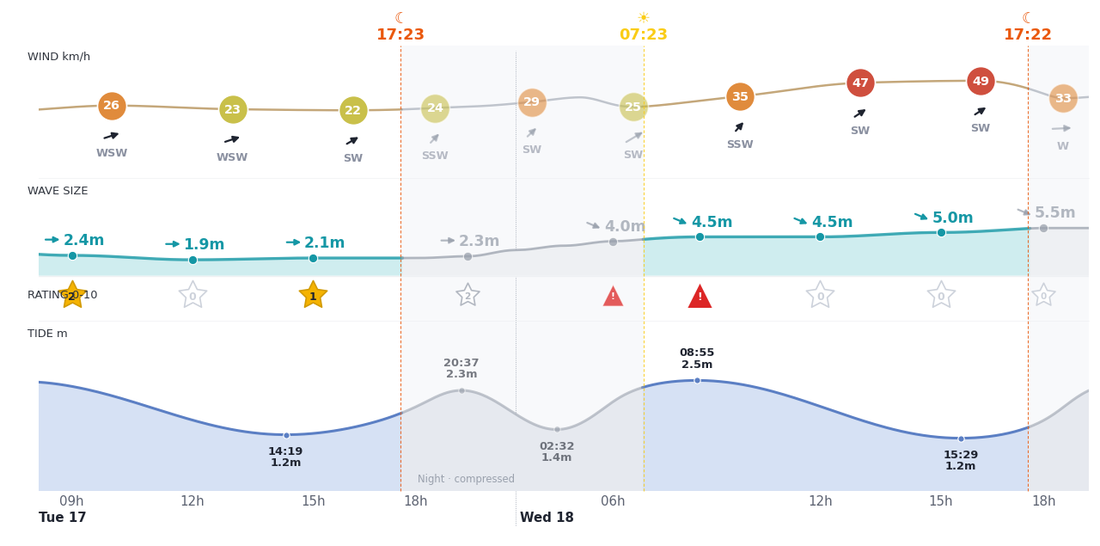
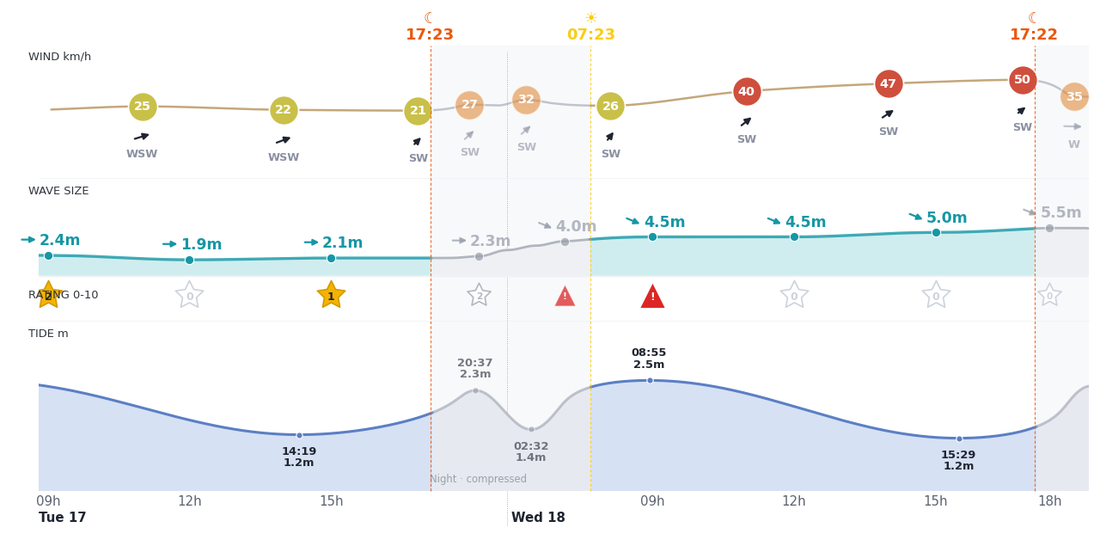
erisurf: run 401

diff --git a/index.html b/index.html
@@ -548,7 +548,7 @@ function draw(){var n=Date.now();cards(n);if(r.open)tide(n)}
 draw();setInterval(draw,60e3);r.addEventListener('toggle',draw);
 document.addEventListener('visibilitychange',function(){if(!document.hidden)draw()});
 if(window.ResizeObserver)new ResizeObserver(function(){if(r.open)draw()}).observe(o);
-})();</script><h2 class="livehd" id="conditions">Wind, tide &amp; surf forecast <span class="plan-fc">· Next 36h</span></h2><figure id="pic-conditions" class="c36"><div class="livechart" data-geo="{&quot;t0&quot;: 1794902789, &quot;t1&quot;: 1795034160, &quot;report&quot;: 1794908549, &quot;left&quot;: 0.035, &quot;right&quot;: 0.99, &quot;top&quot;: 0.085, &quot;bottom&quot;: 0.8993, &quot;suns&quot;: [1794936220, 1794986599, 1795022578], &quot;sunk&quot;: [&quot;set&quot;, &quot;rise&quot;, &quot;set&quot;], &quot;warp&quot;: [[1794902789, 0.0], [1794902789, 0.0], [1794903689, 0.00845], [1794904589, 0.01729], [1794905489, 0.02643], [1794906389, 0.03579], [1794907289, 0.04528], [1794908189, 0.05483], [1794909089, 0.0644], [1794909989, 0.07398], [1794910889, 0.08356], [1794911789, 0.09314], [1794912689, 0.10271], [1794913589, 0.11229], [1794914489, 0.12187], [1794915389, 0.13145], [1794916289, 0.14102], [1794917189, 0.1506], [1794918089, 0.16018], [1794918989, 0.16976], [1794919889, 0.17933], [1794920789, 0.18891], [1794921689, 0.19849], [1794922589, 0.20807], [1794923489, 0.21764], [1794924389, 0.22722], [1794925289, 0.2368], [1794926189, 0.24638], [1794927089, 0.25595], [1794927989, 0.26553], [1794928889, 0.2751], [1794929789, 0.28461], [1794930689, 0.29402], [1794931589, 0.30324], [1794932489, 0.31219], [1794933389, 0.32078], [1794934289, 0.32893], [1794935189, 0.33657], [1794936089, 0.34365], [1794936989, 0.35017], [1794937889, 0.35612], [1794938789, 0.36154], [1794939689, 0.3665], [1794940589, 0.37107], [1794941489, 0.37534], [1794942389, 0.37939], [1794943289, 0.38331], [1794944189, 0.38716], [1794945089, 0.391], [1794945989, 0.39483], [1794946889, 0.39866], [1794947789, 0.40249], [1794948689, 0.40632], [1794949589, 0.41015], [1794950489, 0.41398], [1794951389, 0.41781], [1794952289, 0.42164], [1794953189, 0.42548], [1794954089, 0.42931], [1794954989, 0.43314], [1794955889, 0.43697], [1794956789, 0.4408], [1794957689, 0.44463], [1794958589, 0.44846], [1794959489, 0.45229], [1794960389, 0.45612], [1794961289, 0.45995], [1794962189, 0.46379], [1794963089, 0.46762], [1794963989, 0.47145], [1794964889, 0.47528], [1794965789, 0.47911], [1794966689, 0.48294], [1794967589, 0.48677], [1794968489, 0.4906], [1794969389, 0.49443], [1794970289, 0.49826], [1794971189, 0.5021], [1794972089, 0.50593], [1794972989, 0.50976], [1794973889, 0.51359], [1794974789, 0.51742], [1794975689, 0.52125], [1794976589, 0.52508], [1794977489, 0.52891], [1794978389, 0.53274], [1794979289, 0.53659], [1794980189, 0.54048], [1794981089, 0.54448], [1794981989, 0.54867], [1794982889, 0.55312], [1794983789, 0.55794], [1794984689, 0.5632], [1794985589, 0.56897], [1794986489, 0.5753], [1794987389, 0.58219], [1794988289, 0.58965], [1794989189, 0.59763], [1794990089, 0.60608], [1794990989, 0.61492], [1794991889, 0.62407], [1794992789, 0.63342], [1794993689, 0.64291], [1794994589, 0.65246], [1794995489, 0.66204], [1794996389, 0.67162], [1794997289, 0.68119], [1794998189, 0.69077], [1794999089, 0.70035], [1794999989, 0.70993], [1795000889, 0.7195], [1795001789, 0.72908], [1795002689, 0.73866], [1795003589, 0.74824], [1795004489, 0.75781], [1795005389, 0.76739], [1795006289, 0.77697], [1795007189, 0.78655], [1795008089, 0.79612], [1795008989, 0.8057], [1795009889, 0.81528], [1795010789, 0.82486], [1795011689, 0.83443], [1795012589, 0.84401], [1795013489, 0.85359], [1795014389, 0.86317], [1795015289, 0.87273], [1795016189, 0.88225], [1795017089, 0.89165], [1795017989, 0.90088], [1795018889, 0.90983], [1795019789, 0.91842], [1795020689, 0.92656], [1795021589, 0.9342], [1795022489, 0.94129], [1795023389, 0.9478], [1795024289, 0.95375], [1795025189, 0.95918], [1795026089, 0.96413], [1795026989, 0.9687], [1795027889, 0.97297], [1795028789, 0.97702], [1795029689, 0.98094], [1795030589, 0.9848], [1795031489, 0.98863], [1795032389, 0.99246], [1795033289, 0.99629], [1795034160, 1.0]]}"><a href="img/401/conditions36.png" target="_blank" title="open full size"><img loading="lazy" src="img/401/conditions36.png" alt="wind, tide and forecast"></a><div class="nowline" hidden><span class="nowlbl"></span></div><script>(function(){
+})();</script><h2 class="livehd" id="conditions">Wind, tide &amp; surf forecast <span class="plan-fc">· Next 36h</span></h2><figure id="pic-conditions" class="c36"><div class="livechart" data-geo="{&quot;t0&quot;: 1794905246, &quot;t1&quot;: 1795037760, &quot;report&quot;: 1794911006, &quot;left&quot;: 0.035, &quot;right&quot;: 0.99, &quot;top&quot;: 0.085, &quot;bottom&quot;: 0.8993, &quot;suns&quot;: [1794936220, 1794986599, 1795022578], &quot;sunk&quot;: [&quot;set&quot;, &quot;rise&quot;, &quot;set&quot;], &quot;warp&quot;: [[1794905246, 0.0], [1794905246, 0.0], [1794906146, 0.01089], [1794907046, 0.02198], [1794907946, 0.03318], [1794908846, 0.04442], [1794909746, 0.05565], [1794910646, 0.06689], [1794911546, 0.07812], [1794912446, 0.08936], [1794913346, 0.1006], [1794914246, 0.11183], [1794915146, 0.12307], [1794916046, 0.1343], [1794916946, 0.14554], [1794917846, 0.15677], [1794918746, 0.16801], [1794919646, 0.17925], [1794920546, 0.19048], [1794921446, 0.20172], [1794922346, 0.21295], [1794923246, 0.22419], [1794924146, 0.23543], [1794925046, 0.24666], [1794925946, 0.2579], [1794926846, 0.26913], [1794927746, 0.28037], [1794928646, 0.2916], [1794929546, 0.30277], [1794930446, 0.31381], [1794931346, 0.3246], [1794932246, 0.33501], [1794933146, 0.34491], [1794934046, 0.35415], [1794934946, 0.36263], [1794935846, 0.37026], [1794936746, 0.377], [1794937646, 0.38285], [1794938546, 0.38786], [1794939446, 0.3921], [1794940346, 0.39569], [1794941246, 0.39876], [1794942146, 0.40145], [1794943046, 0.40389], [1794943946, 0.4062], [1794944846, 0.40846], [1794945746, 0.41071], [1794946646, 0.41295], [1794947546, 0.4152], [1794948446, 0.41745], [1794949346, 0.41969], [1794950246, 0.42194], [1794951146, 0.42419], [1794952046, 0.42644], [1794952946, 0.42868], [1794953846, 0.43093], [1794954746, 0.43318], [1794955646, 0.43542], [1794956546, 0.43767], [1794957446, 0.43992], [1794958346, 0.44217], [1794959246, 0.44441], [1794960146, 0.44666], [1794961046, 0.44891], [1794961946, 0.45115], [1794962846, 0.4534], [1794963746, 0.45565], [1794964646, 0.4579], [1794965546, 0.46014], [1794966446, 0.46239], [1794967346, 0.46464], [1794968246, 0.46688], [1794969146, 0.46913], [1794970046, 0.47138], [1794970946, 0.47363], [1794971846, 0.47587], [1794972746, 0.47812], [1794973646, 0.48037], [1794974546, 0.48262], [1794975446, 0.48486], [1794976346, 0.48711], [1794977246, 0.48936], [1794978146, 0.4916], [1794979046, 0.49386], [1794979946, 0.49617], [1794980846, 0.49861], [1794981746, 0.5013], [1794982646, 0.50437], [1794983546, 0.50796], [1794984446, 0.5122], [1794985346, 0.51721], [1794986246, 0.52306], [1794987146, 0.5298], [1794988046, 0.53743], [1794988946, 0.54591], [1794989846, 0.55515], [1794990746, 0.56505], [1794991646, 0.57546], [1794992546, 0.58625], [1794993446, 0.59729], [1794994346, 0.60847], [1794995246, 0.61969], [1794996146, 0.63093], [1794997046, 0.64216], [1794997946, 0.6534], [1794998846, 0.66464], [1794999746, 0.67587], [1795000646, 0.68711], [1795001546, 0.69834], [1795002446, 0.70958], [1795003346, 0.72082], [1795004246, 0.73205], [1795005146, 0.74329], [1795006046, 0.75452], [1795006946, 0.76576], [1795007846, 0.777], [1795008746, 0.78823], [1795009646, 0.79947], [1795010546, 0.8107], [1795011446, 0.82194], [1795012346, 0.83317], [1795013246, 0.84441], [1795014146, 0.85565], [1795015046, 0.86687], [1795015946, 0.87805], [1795016846, 0.88909], [1795017746, 0.89988], [1795018646, 0.91029], [1795019546, 0.92019], [1795020446, 0.92943], [1795021346, 0.9379], [1795022246, 0.94554], [1795023146, 0.95228], [1795024046, 0.95813], [1795024946, 0.96313], [1795025846, 0.96738], [1795026746, 0.97097], [1795027646, 0.97404], [1795028546, 0.97673], [1795029446, 0.97917], [1795030346, 0.98148], [1795031246, 0.98374], [1795032146, 0.98598], [1795033046, 0.98823], [1795033946, 0.99048], [1795034846, 0.99272], [1795035746, 0.99497], [1795036646, 0.99722], [1795037546, 0.99947], [1795037760, 1.0]]}"><a href="img/401/conditions36.png" target="_blank" title="open full size"><img loading="lazy" src="img/401/conditions36.png" alt="wind, tide and forecast"></a><div class="nowline" hidden><span class="nowlbl"></span></div><script>(function(){
 var box=document.currentScript.parentNode,g=JSON.parse(box.dataset.geo),
 line=box.querySelector('.nowline'),lbl=line.firstChild;
 // time -> fraction of the plot width; piecewise when the night is squeezed
@@ -587,7 +587,7 @@ function place(){
 place();setInterval(place,60000);
 // the 72h chart sits in a closed <details>: place the line when it opens
 var dd=box.closest('details');if(dd)dd.addEventListener('toggle',place);
-})();</script></div><details class="c72"><summary title="Show / hide the next 72h"><span class="c72-open">&gt;&gt;</span><span class="c72-close">&lt;&lt;</span></summary><div class="scroll72"><div class="livechart" data-geo="{&quot;t0&quot;: 1794902790, &quot;t1&quot;: 1795163760, &quot;report&quot;: 1794908550, &quot;left&quot;: 0.0175, &quot;right&quot;: 0.995, &quot;top&quot;: 0.085, &quot;bottom&quot;: 0.8993, &quot;suns&quot;: [1794936220, 1794986599, 1795022578, 1795073066, 1795108938], &quot;sunk&quot;: [&quot;set&quot;, &quot;rise&quot;, &quot;set&quot;, &quot;rise&quot;, &quot;set&quot;], &quot;warp&quot;: [[1794902790, 0.0], [1794902790, 0.0], [1794903690, 0.00474], [1794904590, 0.00971], [1794905490, 0.01484], [1794906390, 0.02009], [1794907290, 0.02541], [1794908190, 0.03078], [1794909090, 0.03615], [1794909990, 0.04153], [1794910890, 0.0469], [1794911790, 0.05228], [1794912690, 0.05766], [1794913590, 0.06303], [1794914490, 0.06841], [1794915390, 0.07378], [1794916290, 0.07916], [1794917190, 0.08454], [1794918090, 0.08991], [1794918990, 0.09529], [1794919890, 0.10066], [1794920790, 0.10604], [1794921690, 0.11142], [1794922590, 0.11679], [1794923490, 0.12217], [1794924390, 0.12754], [1794925290, 0.13292], [1794926190, 0.1383], [1794927090, 0.14367], [1794927990, 0.14905], [1794928890, 0.15442], [1794929790, 0.15976], [1794930690, 0.16504], [1794931590, 0.17022], [1794932490, 0.17524], [1794933390, 0.18006], [1794934290, 0.18463], [1794935190, 0.18892], [1794936090, 0.1929], [1794936990, 0.19656], [1794937890, 0.1999], [1794938790, 0.20294], [1794939690, 0.20572], [1794940590, 0.20829], [1794941490, 0.21068], [1794942390, 0.21296], [1794943290, 0.21516], [1794944190, 0.21732], [1794945090, 0.21947], [1794945990, 0.22162], [1794946890, 0.22377], [1794947790, 0.22593], [1794948690, 0.22808], [1794949590, 0.23023], [1794950490, 0.23238], [1794951390, 0.23453], [1794952290, 0.23668], [1794953190, 0.23883], [1794954090, 0.24098], [1794954990, 0.24313], [1794955890, 0.24528], [1794956790, 0.24743], [1794957690, 0.24958], [1794958590, 0.25173], [1794959490, 0.25388], [1794960390, 0.25603], [1794961290, 0.25818], [1794962190, 0.26033], [1794963090, 0.26248], [1794963990, 0.26463], [1794964890, 0.26678], [1794965790, 0.26893], [1794966690, 0.27108], [1794967590, 0.27323], [1794968490, 0.27538], [1794969390, 0.27753], [1794970290, 0.27969], [1794971190, 0.28184], [1794972090, 0.28399], [1794972990, 0.28614], [1794973890, 0.28829], [1794974790, 0.29044], [1794975690, 0.29259], [1794976590, 0.29474], [1794977490, 0.29689], [1794978390, 0.29904], [1794979290, 0.3012], [1794980190, 0.30338], [1794981090, 0.30563], [1794981990, 0.30798], [1794982890, 0.31048], [1794983790, 0.31318], [1794984690, 0.31614], [1794985590, 0.31938], [1794986490, 0.32293], [1794987390, 0.3268], [1794988290, 0.33098], [1794989190, 0.33546], [1794990090, 0.34021], [1794990990, 0.34517], [1794991890, 0.3503], [1794992790, 0.35555], [1794993690, 0.36088], [1794994590, 0.36624], [1794995490, 0.37162], [1794996390, 0.37699], [1794997290, 0.38237], [1794998190, 0.38774], [1794999090, 0.39312], [1794999990, 0.3985], [1795000890, 0.40387], [1795001790, 0.40925], [1795002690, 0.41462], [1795003590, 0.42], [1795004490, 0.42538], [1795005390, 0.43075], [1795006290, 0.43613], [1795007190, 0.4415], [1795008090, 0.44688], [1795008990, 0.45226], [1795009890, 0.45763], [1795010790, 0.46301], [1795011690, 0.46838], [1795012590, 0.47376], [1795013490, 0.47914], [1795014390, 0.48451], [1795015290, 0.48988], [1795016190, 0.49522], [1795017090, 0.5005], [1795017990, 0.50568], [1795018890, 0.5107], [1795019790, 0.51553], [1795020690, 0.5201], [1795021590, 0.52439], [1795022490, 0.52836], [1795023390, 0.53202], [1795024290, 0.53536], [1795025190, 0.5384], [1795026090, 0.54119], [1795026990, 0.54375], [1795027890, 0.54615], [1795028790, 0.54842], [1795029690, 0.55062], [1795030590, 0.55279], [1795031490, 0.55494], [1795032390, 0.55709], [1795033290, 0.55924], [1795034190, 0.56139], [1795035090, 0.56354], [1795035990, 0.56569], [1795036890, 0.56784], [1795037790, 0.56999], [1795038690, 0.57214], [1795039590, 0.57429], [1795040490, 0.57644], [1795041390, 0.57859], [1795042290, 0.58074], [1795043190, 0.58289], [1795044090, 0.58504], [1795044990, 0.58719], [1795045890, 0.58934], [1795046790, 0.59149], [1795047690, 0.59364], [1795048590, 0.5958], [1795049490, 0.59795], [1795050390, 0.6001], [1795051290, 0.60225], [1795052190, 0.6044], [1795053090, 0.60655], [1795053990, 0.6087], [1795054890, 0.61085], [1795055790, 0.613], [1795056690, 0.61515], [1795057590, 0.6173], [1795058490, 0.61945], [1795059390, 0.6216], [1795060290, 0.62375], [1795061190, 0.6259], [1795062090, 0.62805], [1795062990, 0.6302], [1795063890, 0.63235], [1795064790, 0.6345], [1795065690, 0.63666], [1795066590, 0.63885], [1795067490, 0.64109], [1795068390, 0.64344], [1795069290, 0.64594], [1795070190, 0.64865], [1795071090, 0.6516], [1795071990, 0.65484], [1795072890, 0.65839], [1795073790, 0.66226], [1795074690, 0.66645], [1795075590, 0.67093], [1795076490, 0.67567], [1795077390, 0.68063], [1795078290, 0.68576], [1795079190, 0.69102], [1795080090, 0.69634], [1795080990, 0.7017], [1795081890, 0.70708], [1795082790, 0.71245], [1795083690, 0.71783], [1795084590, 0.72321], [1795085490, 0.72858], [1795086390, 0.73396], [1795087290, 0.73933], [1795088190, 0.74471], [1795089090, 0.75009], [1795089990, 0.75546], [1795090890, 0.76084], [1795091790, 0.76621], [1795092690, 0.77159], [1795093590, 0.77697], [1795094490, 0.78234], [1795095390, 0.78772], [1795096290, 0.79309], [1795097190, 0.79847], [1795098090, 0.80385], [1795098990, 0.80922], [1795099890, 0.8146], [1795100790, 0.81997], [1795101690, 0.82534], [1795102590, 0.83069], [1795103490, 0.83597], [1795104390, 0.84114], [1795105290, 0.84617], [1795106190, 0.85099], [1795107090, 0.85556], [1795107990, 0.85985], [1795108890, 0.86383], [1795109790, 0.86748], [1795110690, 0.87082], [1795111590, 0.87387], [1795112490, 0.87665], [1795113390, 0.87922], [1795114290, 0.88161], [1795115190, 0.88388], [1795116090, 0.88609], [1795116990, 0.88825], [1795117890, 0.8904], [1795118790, 0.89255], [1795119690, 0.8947], [1795120590, 0.89685], [1795121490, 0.899], [1795122390, 0.90115], [1795123290, 0.9033], [1795124190, 0.90545], [1795125090, 0.9076], [1795125990, 0.90975], [1795126890, 0.9119], [1795127790, 0.91406], [1795128690, 0.91621], [1795129590, 0.91836], [1795130490, 0.92051], [1795131390, 0.92266], [1795132290, 0.92481], [1795133190, 0.92696], [1795134090, 0.92911], [1795134990, 0.93126], [1795135890, 0.93341], [1795136790, 0.93556], [1795137690, 0.93771], [1795138590, 0.93986], [1795139490, 0.94201], [1795140390, 0.94416], [1795141290, 0.94631], [1795142190, 0.94846], [1795143090, 0.95061], [1795143990, 0.95276], [1795144890, 0.95491], [1795145790, 0.95706], [1795146690, 0.95921], [1795147590, 0.96136], [1795148490, 0.96351], [1795149390, 0.96567], [1795150290, 0.96782], [1795151190, 0.96997], [1795152090, 0.97212], [1795152990, 0.97427], [1795153890, 0.97642], [1795154790, 0.97857], [1795155690, 0.98072], [1795156590, 0.98287], [1795157490, 0.98502], [1795158390, 0.98717], [1795159290, 0.98932], [1795160190, 0.99147], [1795161090, 0.99362], [1795161990, 0.99577], [1795162890, 0.99792], [1795163760, 1.0]], &quot;fs&quot;: 2}"><a href="img/401/conditions72.png" target="_blank" title="open full size"><img loading="lazy" src="img/401/conditions72.png" alt="wind, tide and forecast, 72h"></a><div class="nowline" hidden><span class="nowlbl"></span></div><script>(function(){
+})();</script></div><details class="c72"><summary title="Show / hide the next 72h"><span class="c72-open">&gt;&gt;</span><span class="c72-close">&lt;&lt;</span></summary><div class="scroll72"><div class="livechart" data-geo="{&quot;t0&quot;: 1794905246, &quot;t1&quot;: 1795167360, &quot;report&quot;: 1794911006, &quot;left&quot;: 0.0175, &quot;right&quot;: 0.995, &quot;top&quot;: 0.085, &quot;bottom&quot;: 0.8993, &quot;suns&quot;: [1794936220, 1794986599, 1795022578, 1795073066, 1795108938], &quot;sunk&quot;: [&quot;set&quot;, &quot;rise&quot;, &quot;set&quot;, &quot;rise&quot;, &quot;set&quot;], &quot;warp&quot;: [[1794905246, 0.0], [1794905246, 0.0], [1794906146, 0.00648], [1794907046, 0.01308], [1794907946, 0.01975], [1794908846, 0.02644], [1794909746, 0.03312], [1794910646, 0.03981], [1794911546, 0.0465], [1794912446, 0.05319], [1794913346, 0.05987], [1794914246, 0.06656], [1794915146, 0.07325], [1794916046, 0.07994], [1794916946, 0.08662], [1794917846, 0.09331], [1794918746, 0.1], [1794919646, 0.10669], [1794920546, 0.11337], [1794921446, 0.12006], [1794922346, 0.12675], [1794923246, 0.13343], [1794924146, 0.14012], [1794925046, 0.14681], [1794925946, 0.1535], [1794926846, 0.16018], [1794927746, 0.16687], [1794928646, 0.17355], [1794929546, 0.1802], [1794930446, 0.18678], [1794931346, 0.1932], [1794932246, 0.1994], [1794933146, 0.20528], [1794934046, 0.21079], [1794934946, 0.21583], [1794935846, 0.22037], [1794936746, 0.22439], [1794937646, 0.22787], [1794938546, 0.23085], [1794939446, 0.23337], [1794940346, 0.23551], [1794941246, 0.23734], [1794942146, 0.23894], [1794943046, 0.24039], [1794943946, 0.24177], [1794944846, 0.24311], [1794945746, 0.24445], [1794946646, 0.24578], [1794947546, 0.24712], [1794948446, 0.24846], [1794949346, 0.2498], [1794950246, 0.25113], [1794951146, 0.25247], [1794952046, 0.25381], [1794952946, 0.25515], [1794953846, 0.25648], [1794954746, 0.25782], [1794955646, 0.25916], [1794956546, 0.2605], [1794957446, 0.26183], [1794958346, 0.26317], [1794959246, 0.26451], [1794960146, 0.26585], [1794961046, 0.26718], [1794961946, 0.26852], [1794962846, 0.26986], [1794963746, 0.2712], [1794964646, 0.27253], [1794965546, 0.27387], [1794966446, 0.27521], [1794967346, 0.27655], [1794968246, 0.27788], [1794969146, 0.27922], [1794970046, 0.28056], [1794970946, 0.2819], [1794971846, 0.28323], [1794972746, 0.28457], [1794973646, 0.28591], [1794974546, 0.28725], [1794975446, 0.28858], [1794976346, 0.28992], [1794977246, 0.29126], [1794978146, 0.2926], [1794979046, 0.29394], [1794979946, 0.29531], [1794980846, 0.29677], [1794981746, 0.29837], [1794982646, 0.3002], [1794983546, 0.30233], [1794984446, 0.30486], [1794985346, 0.30784], [1794986246, 0.31132], [1794987146, 0.31533], [1794988046, 0.31987], [1794988946, 0.32492], [1794989846, 0.33042], [1794990746, 0.33631], [1794991646, 0.34251], [1794992546, 0.34893], [1794993446, 0.3555], [1794994346, 0.36215], [1794995246, 0.36883], [1794996146, 0.37552], [1794997046, 0.38221], [1794997946, 0.3889], [1794998846, 0.39558], [1794999746, 0.40227], [1795000646, 0.40896], [1795001546, 0.41565], [1795002446, 0.42233], [1795003346, 0.42902], [1795004246, 0.43571], [1795005146, 0.44239], [1795006046, 0.44908], [1795006946, 0.45577], [1795007846, 0.46246], [1795008746, 0.46914], [1795009646, 0.47583], [1795010546, 0.48252], [1795011446, 0.48921], [1795012346, 0.49589], [1795013246, 0.50258], [1795014146, 0.50927], [1795015046, 0.51595], [1795015946, 0.5226], [1795016846, 0.52917], [1795017746, 0.5356], [1795018646, 0.54179], [1795019546, 0.54768], [1795020446, 0.55318], [1795021346, 0.55823], [1795022246, 0.56277], [1795023146, 0.56678], [1795024046, 0.57027], [1795024946, 0.57325], [1795025846, 0.57577], [1795026746, 0.57791], [1795027646, 0.57973], [1795028546, 0.58133], [1795029446, 0.58279], [1795030346, 0.58416], [1795031246, 0.58551], [1795032146, 0.58684], [1795033046, 0.58818], [1795033946, 0.58952], [1795034846, 0.59086], [1795035746, 0.59219], [1795036646, 0.59353], [1795037546, 0.59487], [1795038446, 0.59621], [1795039346, 0.59754], [1795040246, 0.59888], [1795041146, 0.60022], [1795042046, 0.60156], [1795042946, 0.60289], [1795043846, 0.60423], [1795044746, 0.60557], [1795045646, 0.60691], [1795046546, 0.60824], [1795047446, 0.60958], [1795048346, 0.61092], [1795049246, 0.61226], [1795050146, 0.61359], [1795051046, 0.61493], [1795051946, 0.61627], [1795052846, 0.61761], [1795053746, 0.61894], [1795054646, 0.62028], [1795055546, 0.62162], [1795056446, 0.62296], [1795057346, 0.62429], [1795058246, 0.62563], [1795059146, 0.62697], [1795060046, 0.62831], [1795060946, 0.62964], [1795061846, 0.63098], [1795062746, 0.63232], [1795063646, 0.63366], [1795064546, 0.63499], [1795065446, 0.63634], [1795066346, 0.63771], [1795067246, 0.63916], [1795068146, 0.64077], [1795069046, 0.64259], [1795069946, 0.64473], [1795070846, 0.64725], [1795071746, 0.65023], [1795072646, 0.65372], [1795073546, 0.65773], [1795074446, 0.66227], [1795075346, 0.66732], [1795076246, 0.67282], [1795077146, 0.67871], [1795078046, 0.6849], [1795078946, 0.69133], [1795079846, 0.6979], [1795080746, 0.70455], [1795081646, 0.71123], [1795082546, 0.71792], [1795083446, 0.72461], [1795084346, 0.73129], [1795085246, 0.73798], [1795086146, 0.74467], [1795087046, 0.75135], [1795087946, 0.75804], [1795088846, 0.76473], [1795089746, 0.77142], [1795090646, 0.7781], [1795091546, 0.78479], [1795092446, 0.79148], [1795093346, 0.79817], [1795094246, 0.80485], [1795095146, 0.81154], [1795096046, 0.81823], [1795096946, 0.82492], [1795097846, 0.8316], [1795098746, 0.83829], [1795099646, 0.84498], [1795100546, 0.85167], [1795101446, 0.85834], [1795102346, 0.86497], [1795103246, 0.8715], [1795104146, 0.87786], [1795105046, 0.88396], [1795105946, 0.88973], [1795106846, 0.89509], [1795107746, 0.89997], [1795108646, 0.90434], [1795109546, 0.90817], [1795110446, 0.91148], [1795111346, 0.9143], [1795112246, 0.91669], [1795113146, 0.91871], [1795114046, 0.92046], [1795114946, 0.922], [1795115846, 0.92342], [1795116746, 0.92478], [1795117646, 0.92612], [1795118546, 0.92746], [1795119446, 0.9288], [1795120346, 0.93013], [1795121246, 0.93147], [1795122146, 0.93281], [1795123046, 0.93415], [1795123946, 0.93548], [1795124846, 0.93682], [1795125746, 0.93816], [1795126646, 0.93949], [1795127546, 0.94083], [1795128446, 0.94217], [1795129346, 0.94351], [1795130246, 0.94484], [1795131146, 0.94618], [1795132046, 0.94752], [1795132946, 0.94886], [1795133846, 0.95019], [1795134746, 0.95153], [1795135646, 0.95287], [1795136546, 0.95421], [1795137446, 0.95554], [1795138346, 0.95688], [1795139246, 0.95822], [1795140146, 0.95956], [1795141046, 0.96089], [1795141946, 0.96223], [1795142846, 0.96357], [1795143746, 0.96491], [1795144646, 0.96624], [1795145546, 0.96758], [1795146446, 0.96892], [1795147346, 0.97026], [1795148246, 0.97159], [1795149146, 0.97293], [1795150046, 0.97427], [1795150946, 0.97561], [1795151846, 0.97694], [1795152746, 0.97828], [1795153646, 0.97962], [1795154546, 0.98096], [1795155446, 0.98229], [1795156346, 0.98363], [1795157246, 0.98497], [1795158146, 0.98631], [1795159046, 0.98764], [1795159946, 0.98898], [1795160846, 0.99032], [1795161746, 0.99166], [1795162646, 0.99299], [1795163546, 0.99433], [1795164446, 0.99567], [1795165346, 0.99701], [1795166246, 0.99834], [1795167146, 0.99968], [1795167360, 1.0]], &quot;fs&quot;: 2}"><a href="img/401/conditions72.png" target="_blank" title="open full size"><img loading="lazy" src="img/401/conditions72.png" alt="wind, tide and forecast, 72h"></a><div class="nowline" hidden><span class="nowlbl"></span></div><script>(function(){
 var box=document.currentScript.parentNode,g=JSON.parse(box.dataset.geo),
 line=box.querySelector('.nowline'),lbl=line.firstChild;
 // time -> fraction of the plot width; piecewise when the night is squeezed
